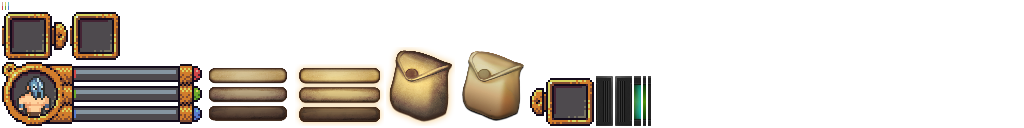
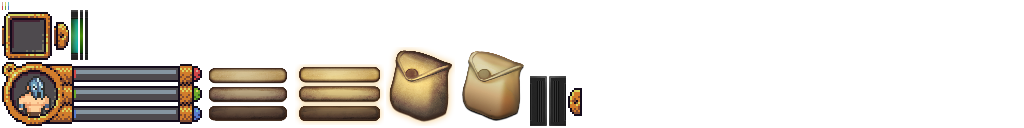
hotbar template done, asset hotbar changed

diff --git a/libGDX_TuQuoque/core/src/com/tuquoque/game/ui/GameUI.java b/libGDX_TuQuoque/core/src/com/tuquoque/game/ui/GameUI.java
@@ -1,17 +1,22 @@
 package com.tuquoque.game.ui;
 
 import com.badlogic.gdx.scenes.scene2d.InputEvent;
-import com.badlogic.gdx.scenes.scene2d.Stage;
 import com.badlogic.gdx.scenes.scene2d.ui.*;
 import com.badlogic.gdx.scenes.scene2d.utils.ClickListener;
 import com.tuquoque.game.GameStarter;
 import com.tuquoque.game.screens.ScreenType;
 
+import java.util.ArrayList;
+
 public class GameUI extends Table {
 
     public GameUI(final GameStarter context, final Skin skin){
         super(skin);
+
+        //table properties
         setFillParent(true);
+        pad(20);
+        setDebug(false);
 
         //widgets 1st row
         Button menu = new Button(skin.getDrawable("menuIconInactive"), skin.getDrawable("menuIconActive"));
@@ -25,23 +30,40 @@ public class GameUI extends Table {
 
         //widgets 2nd row
         Image playerStatus = new Image(skin.getDrawable("playerStatus"));   //sarà un table da noi definito in futuro
-        Image hotbarBegin = new Image(skin.getDrawable("hotbarBegin"));     //cambiare l'immagine dell'hud per avere solo la parte fissa a sx
-        Image hotbar = new Image(skin.getDrawable("hotbarMid"));            //sarà un table da noi definito in futuro
-        Image hotbarEnd = new Image(skin.getDrawable("hotbarEnd"));         //cambiare l'immagine dell'hud per avere solo la parte fissa a dx
+        Hotbar hotbar = new Hotbar(skin);
 
-        //table properties
-        pad(20);
-        setDebug(false);
 
         //first row
         add(menu).top().left();
-        add(inventory).expandX().colspan(3).top().right();
+        add(inventory).expandX().top().right();
         row();
 
         //second row
         add(playerStatus).expandY().bottom();
-        add(hotbarBegin).expandX().bottom().right();
-        add(hotbar).bottom();
-        add(hotbarEnd).bottom().expandX().left();
+        add(hotbar).bottom().padRight(playerStatus.getWidth());
+    }
+}
+
+
+
+class Hotbar extends Table{
+    ArrayList<Stack> slots;
+
+    public Hotbar(Skin skin){
+        super(skin);
+        slots = new ArrayList<>(8);
+
+        setScale(1.5f);
+        setDebug(false);
+
+
+        add(new Image(skin.getDrawable("hotbarBegin"))).expandX().bottom().right();
+        for(int i=0; i<8; i++){
+            Stack currentStack = new Stack();
+            currentStack.add(new Image(skin.getDrawable("hotbarMid")));
+            add(currentStack);
+            slots.add(currentStack);
+        }
+        add(new Image(skin.getDrawable("hotbarEnd"))).bottom().expandX().left();
     }
 }

diff --git a/libGDX_TuQuoque/core/src/com/tuquoque/game/GameStarter.java b/libGDX_TuQuoque/core/src/com/tuquoque/game/GameStarter.java
@@ -66,7 +66,7 @@ public class GameStarter extends Game {
 		box2DDebugRenderer = new Box2DDebugRenderer();
 
 		// Invisible hitboxes
-		//box2DDebugRenderer.setDrawBodies(false);
+		box2DDebugRenderer.setDrawBodies(false);
 		accumulator = 0;
 
 		//Camera, viewport, batch
